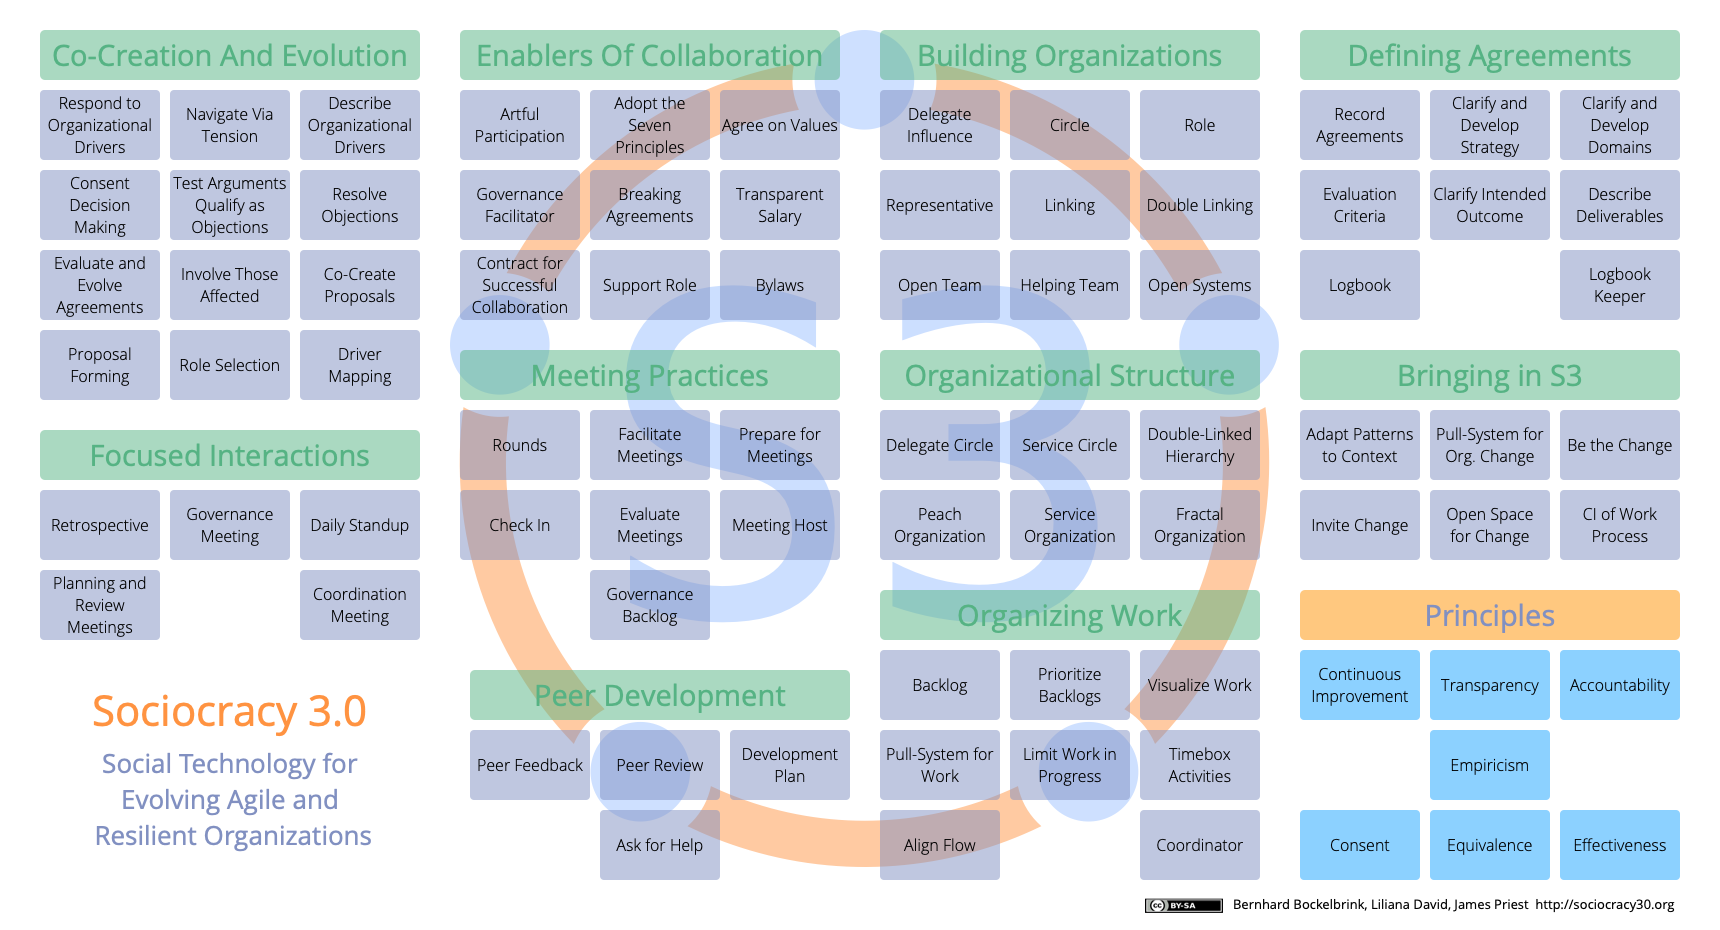
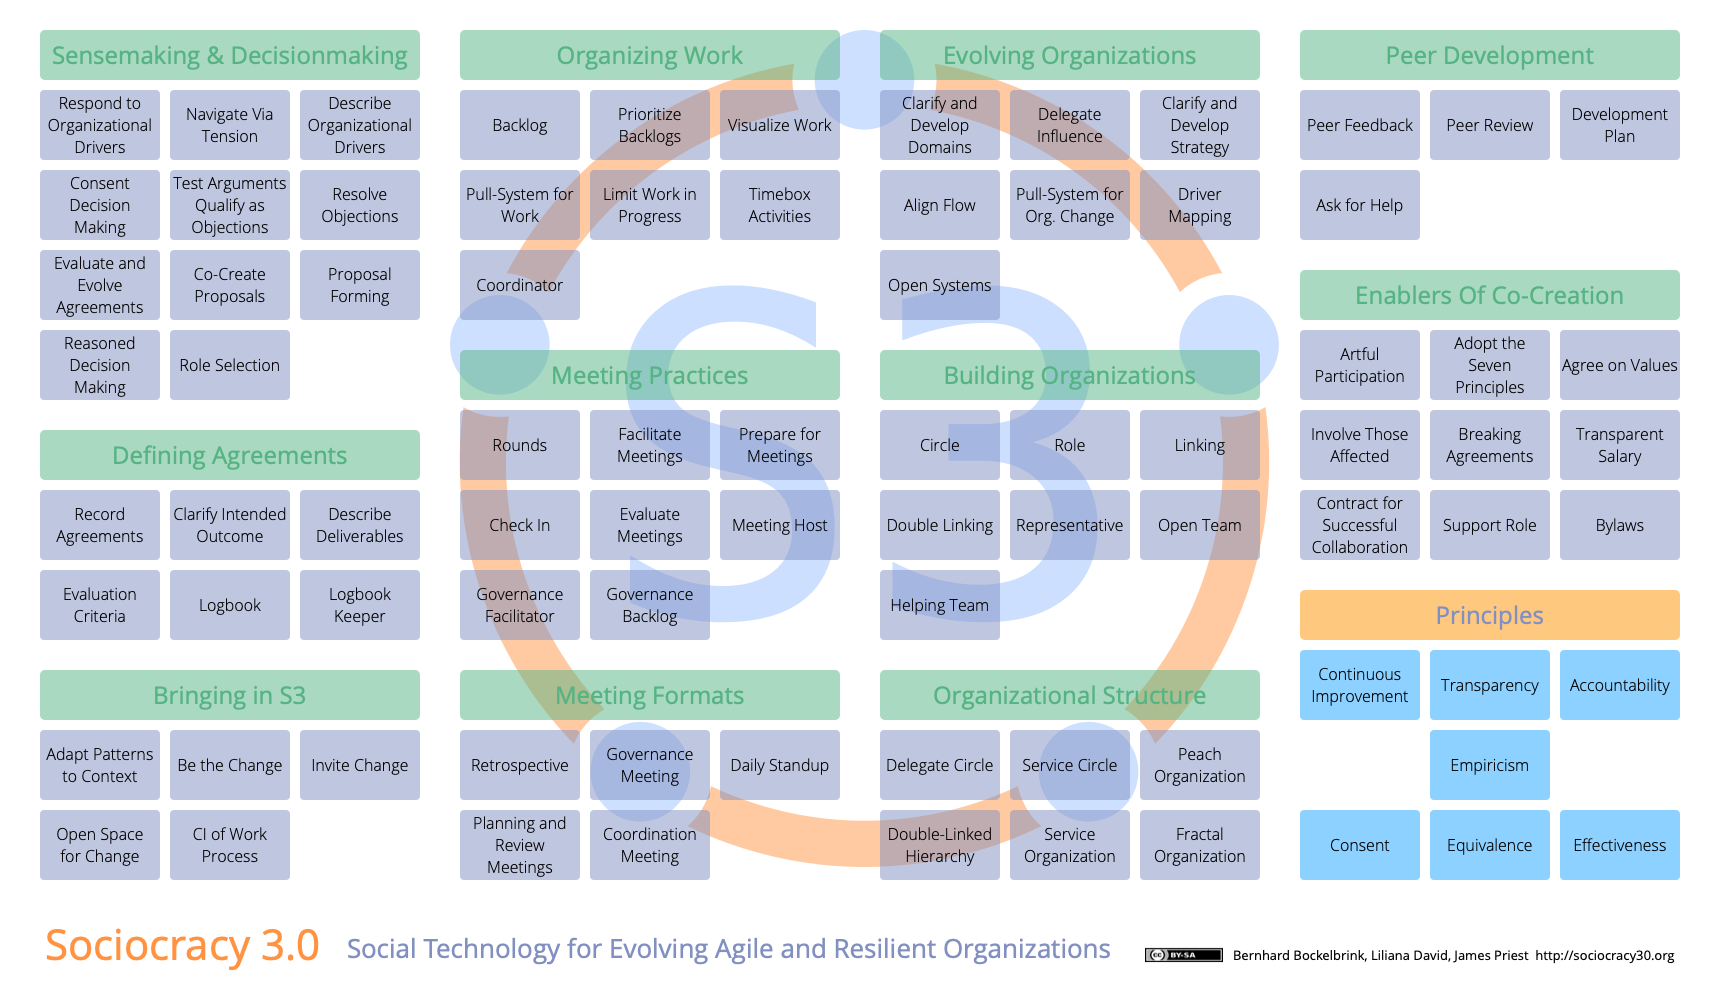
updated pattern map template and image

diff --git a/templates/website/pattern-map.html b/templates/website/pattern-map.html
@@ -1,52 +1,72 @@
 <map name="GraffleExport">
-	<area shape=rect coords="720,410,840,480" href="https://${microsite_cname}/prepare-for-meetings.html">
-	<area shape=rect coords="460,490,580,560" href="https://${microsite_cname}/check-in.html">
-	<area shape=rect coords="1140,730,1260,800" href="https://${microsite_cname}/timebox-activities.html">
-	<area shape=rect coords="40,330,160,400" href="https://${microsite_cname}/proposal-forming.html">
+	<area shape=rect coords="40,30,420,80" href="https://${microsite_cname}/sensemaking-and-decisionmaking.html">
+	<area shape=rect coords="40,330,160,400" href="https://${microsite_cname}/reasoned-decision-making.html">
+	<area shape=rect coords="300,250,420,320" href="https://${microsite_cname}/proposal-forming.html">
 	<area shape=rect coords="170,330,290,400" href="https://${microsite_cname}/role-selection.html">
-	<area shape=rect coords="300,330,420,400" href="https://${microsite_cname}/driver-mapping.html">
 	<area shape=rect coords="40,250,160,320" href="https://${microsite_cname}/evaluate-and-evolve-agreements.html">
-	<area shape=rect coords="170,250,290,320" href="https://${microsite_cname}/involve-those-affected.html">
 	<area shape=rect coords="300,170,420,240" href="https://${microsite_cname}/resolve-objections.html">
 	<area shape=rect coords="40,170,160,240" href="https://${microsite_cname}/consent-decision-making.html">
-	<area shape=rect coords="300,250,420,320" href="https://${microsite_cname}/co-create-proposals.html">
+	<area shape=rect coords="170,250,290,320" href="https://${microsite_cname}/co-create-proposals.html">
 	<area shape=rect coords="170,90,290,160" href="https://${microsite_cname}/navigate-via-tension.html">
-	<area shape=rect coords="170,170,290,240" href="https://${microsite_cname}/test-arguments-qualify-as-objections.html">
+	<area shape=rect coords="170,170,290,240" href="https://${microsite_cname}/test-arguments=qualify-as-objections.html">
 	<area shape=rect coords="40,90,160,160" href="https://${microsite_cname}/respond-to-organizational-drivers.html">
-	<area shape=rect coords="40,30,420,80" href="https://${microsite_cname}/co-creation-and-evolution.html">
 	<area shape=rect coords="300,90,420,160" href="https://${microsite_cname}/describe-organizational-drivers.html">
-	<area shape=rect coords="1300,350,1680,400" href="https://${microsite_cname}/bringing-in-s3.html">
-	<area shape=rect coords="1430,490,1550,560" href="https://${microsite_cname}/open-space-for-change.html">
-	<area shape=rect coords="1430,410,1550,480" href="https://${microsite_cname}/create-a-pull-system-for-organizational-change.html">
-	<area shape=rect coords="1300,490,1420,560" href="https://${microsite_cname}/invite-change.html">
-	<area shape=rect coords="1560,490,1680,560" href="https://${microsite_cname}/continuous-improvement-of-work-process.html">
-	<area shape=rect coords="1300,410,1420,480" href="https://${microsite_cname}/adapt-patterns-to-context.html">
-	<area shape=rect coords="1560,410,1680,480" href="https://${microsite_cname}/be-the-change.html">
-	<area shape=rect coords="880,810,1000,880" href="https://${microsite_cname}/align-flow.html">
-	<area shape=rect coords="1140,810,1260,880" href="https://${microsite_cname}/coordinator.html">
-	<area shape=rect coords="1010,730,1130,800" href="https://${microsite_cname}/limit-work-in-progress.html">
-	<area shape=rect coords="880,730,1000,800" href="https://${microsite_cname}/pull-system-for-work.html">
-	<area shape=rect coords="1010,650,1130,720" href="https://${microsite_cname}/prioritize-backlogs.html">
-	<area shape=rect coords="880,650,1000,720" href="https://${microsite_cname}/backlog.html">
-	<area shape=rect coords="1140,650,1260,720" href="https://${microsite_cname}/visualize-work.html">
-	<area shape=rect coords="880,590,1260,640" href="https://${microsite_cname}/organizing-work.html">
-	<area shape=rect coords="880,350,1260,400" href="https://${microsite_cname}/organizational-structure.html">
-	<area shape=rect coords="1140,490,1260,560" href="https://${microsite_cname}/fractal-organization.html">
-	<area shape=rect coords="1010,490,1130,560" href="https://${microsite_cname}/service-organization.html">
-	<area shape=rect coords="1140,410,1260,480" href="https://${microsite_cname}/double-linked-hierarchy.html">
-	<area shape=rect coords="880,490,1000,560" href="https://${microsite_cname}/peach-organization.html">
-	<area shape=rect coords="1010,410,1130,480" href="https://${microsite_cname}/service-circle.html">
-	<area shape=rect coords="880,410,1000,480" href="https://${microsite_cname}/delegate-circle.html">
-	<area shape=rect coords="1140,250,1260,320" href="https://${microsite_cname}/open-systems.html">
-	<area shape=rect coords="1010,250,1130,320" href="https://${microsite_cname}/helping-team.html">
-	<area shape=rect coords="880,250,1000,320" href="https://${microsite_cname}/open-team.html">
-	<area shape=rect coords="880,30,1260,80" href="https://${microsite_cname}/building-organizations.html">
-	<area shape=rect coords="880,170,1000,240" href="https://${microsite_cname}/representative.html">
-	<area shape=rect coords="1140,170,1260,240" href="https://${microsite_cname}/double-linking.html">
-	<area shape=rect coords="1010,170,1130,240" href="https://${microsite_cname}/linking.html">
-	<area shape=rect coords="880,90,1000,160" href="https://${microsite_cname}/delegate-influence.html">
-	<area shape=rect coords="1140,90,1260,160" href="https://${microsite_cname}/role.html">
-	<area shape=rect coords="1010,90,1130,160" href="https://${microsite_cname}/circle.html">
+	<area shape=rect coords="880,30,1260,80" href="https://${microsite_cname}/evolving-organizations.html">
+	<area shape=rect coords="880,170,1000,240" href="https://${microsite_cname}/align-flow.html">
+	<area shape=rect coords="1010,170,1130,240" href="https://${microsite_cname}/create-a-pull-system-for-organizational-change.html">
+	<area shape=rect coords="1140,170,1260,240" href="https://${microsite_cname}/driver-mapping.html">
+	<area shape=rect coords="880,250,1000,320" href="https://${microsite_cname}/open-systems.html">
+	<area shape=rect coords="1010,90,1130,160" href="https://${microsite_cname}/delegate-influence.html">
+	<area shape=rect coords="880,90,1000,160" href="https://${microsite_cname}/clarify-and-develop-domains.html">
+	<area shape=rect coords="1140,90,1260,160" href="https://${microsite_cname}/clarify-and-develop-strategy.html">
+	<area shape=rect coords="720,410,840,480" href="https://${microsite_cname}/prepare-for-meetings.html">
+	<area shape=rect coords="460,490,580,560" href="https://${microsite_cname}/check-in.html">
+	<area shape=rect coords="590,570,710,640" href="https://${microsite_cname}/governance-backlog.html">
+	<area shape=rect coords="720,490,840,560" href="https://${microsite_cname}/meeting-host.html">
+	<area shape=rect coords="590,490,710,560" href="https://${microsite_cname}/evaluate-meetings.html">
+	<area shape=rect coords="590,410,710,480" href="https://${microsite_cname}/facilitate-meetings.html">
+	<area shape=rect coords="460,410,580,480" href="https://${microsite_cname}/rounds.html">
+	<area shape=rect coords="460,350,840,400" href="https://${microsite_cname}/meeting-practices.html">
+	<area shape=rect coords="460,570,580,640" href="https://${microsite_cname}/governance-facilitator.html">
+	<area shape=rect coords="720,170,840,240" href="https://${microsite_cname}/timebox-activities.html">
+	<area shape=rect coords="460,250,580,320" href="https://${microsite_cname}/coordinator.html">
+	<area shape=rect coords="590,170,710,240" href="https://${microsite_cname}/limit-work-in-progress.html">
+	<area shape=rect coords="460,170,580,240" href="https://${microsite_cname}/pull-system-for-work.html">
+	<area shape=rect coords="590,90,710,160" href="https://${microsite_cname}/prioritize-backlogs.html">
+	<area shape=rect coords="460,90,580,160" href="https://${microsite_cname}/backlog.html">
+	<area shape=rect coords="720,90,840,160" href="https://${microsite_cname}/visualize-work.html">
+	<area shape=rect coords="460,30,840,80" href="https://${microsite_cname}/organizing-work.html">
+	<area shape=rect coords="880,670,1260,720" href="https://${microsite_cname}/organizational-structure.html">
+	<area shape=rect coords="1140,810,1260,880" href="https://${microsite_cname}/fractal-organization.html">
+	<area shape=rect coords="1010,810,1130,880" href="https://${microsite_cname}/service-organization.html">
+	<area shape=rect coords="880,810,1000,880" href="https://${microsite_cname}/double-linked-hierarchy.html">
+	<area shape=rect coords="1140,730,1260,800" href="https://${microsite_cname}/peach-organization.html">
+	<area shape=rect coords="1010,730,1130,800" href="https://${microsite_cname}/service-circle.html">
+	<area shape=rect coords="880,730,1000,800" href="https://${microsite_cname}/delegate-circle.html">
+	<area shape=rect coords="1300,410,1420,480" href="https://${microsite_cname}/involve-those-affected.html">
+	<area shape=rect coords="1430,490,1550,560" href="https://${microsite_cname}/support-role.html">
+	<area shape=rect coords="1430,410,1550,480" href="https://${microsite_cname}/breaking-agreements.html">
+	<area shape=rect coords="1560,410,1680,480" href="https://${microsite_cname}/transparent-salary.html">
+	<area shape=rect coords="1300,490,1420,560" href="https://${microsite_cname}/contract-for-successful-collaboration.html">
+	<area shape=rect coords="1560,490,1680,560" href="https://${microsite_cname}/bylaws.html">
+	<area shape=rect coords="1560,330,1680,400" href="https://${microsite_cname}/agree-on-values.html">
+	<area shape=rect coords="1430,330,1550,400" href="https://${microsite_cname}/adopt-the-seven-principles.html">
+	<area shape=rect coords="1300,330,1420,400" href="https://${microsite_cname}/artful-participation.html">
+	<area shape=rect coords="1300,270,1680,320" href="https://${microsite_cname}/enablers-of-co-creation.html">
+	<area shape=rect coords="40,670,420,720" href="https://${microsite_cname}/bringing-in-s3.html">
+	<area shape=rect coords="40,810,160,880" href="https://${microsite_cname}/open-space-for-change.html">
+	<area shape=rect coords="300,730,420,800" href="https://${microsite_cname}/invite-change.html">
+	<area shape=rect coords="170,810,290,880" href="https://${microsite_cname}/continuous-improvement-of-work-process.html">
+	<area shape=rect coords="40,730,160,800" href="https://${microsite_cname}/adapt-patterns-to-context.html">
+	<area shape=rect coords="170,730,290,800" href="https://${microsite_cname}/be-the-change.html">
+	<area shape=rect coords="880,350,1260,400" href="https://${microsite_cname}/building-organizations.html">
+	<area shape=rect coords="880,570,1000,640" href="https://${microsite_cname}/helping-team.html">
+	<area shape=rect coords="1140,490,1260,560" href="https://${microsite_cname}/open-team.html">
+	<area shape=rect coords="1010,490,1130,560" href="https://${microsite_cname}/representative.html">
+	<area shape=rect coords="880,490,1000,560" href="https://${microsite_cname}/double-linking.html">
+	<area shape=rect coords="1140,410,1260,480" href="https://${microsite_cname}/linking.html">
+	<area shape=rect coords="1010,410,1130,480" href="https://${microsite_cname}/role.html">
+	<area shape=rect coords="880,410,1000,480" href="https://${microsite_cname}/circle.html">
 	<area shape=rect coords="1300,590,1680,640" href="https://${microsite_cname}/principles.html">
 	<area shape=rect coords="1300,650,1420,720" href="https://${microsite_cname}/principle-continuous-improvement.html">
 	<area shape=rect coords="1560,650,1680,720" href="https://${microsite_cname}/principle-accountability.html">
@@ -55,41 +75,23 @@
 	<area shape=rect coords="1560,810,1680,880" href="https://${microsite_cname}/principle-effectiveness.html">
 	<area shape=rect coords="1430,810,1550,880" href="https://${microsite_cname}/principle-equivalence.html">
 	<area shape=rect coords="1430,730,1550,800" href="https://${microsite_cname}/principle-empiricism.html">
-	<area shape=rect coords="590,570,710,640" href="https://${microsite_cname}/governance-backlog.html">
-	<area shape=rect coords="720,490,840,560" href="https://${microsite_cname}/meeting-host.html">
-	<area shape=rect coords="590,490,710,560" href="https://${microsite_cname}/evaluate-meetings.html">
-	<area shape=rect coords="590,410,710,480" href="https://${microsite_cname}/facilitate-meetings.html">
-	<area shape=rect coords="460,410,580,480" href="https://${microsite_cname}/rounds.html">
-	<area shape=rect coords="460,350,840,400" href="https://${microsite_cname}/meeting-practices.html">
-	<area shape=rect coords="300,570,420,640" href="https://${microsite_cname}/coordination-meeting.html">
-	<area shape=rect coords="40,570,160,640" href="https://${microsite_cname}/planning-and-review-meetings.html">
-	<area shape=rect coords="300,490,420,560" href="https://${microsite_cname}/daily-standup.html">
-	<area shape=rect coords="40,490,160,560" href="https://${microsite_cname}/retrospective.html">
-	<area shape=rect coords="170,490,290,560" href="https://${microsite_cname}/governance-meeting.html">
-	<area shape=rect coords="40,429,420,480" href="https://${microsite_cname}/focused-interactions.html">
-	<area shape=rect coords="1560,170,1680,240" href="https://${microsite_cname}/describe-deliverables.html">
-	<area shape=rect coords="1560,90,1680,160" href="https://${microsite_cname}/clarify-and-develop-domains.html">
-	<area shape=rect coords="1300,170,1420,240" href="https://${microsite_cname}/evaluation-criteria.html">
-	<area shape=rect coords="1430,170,1550,240" href="https://${microsite_cname}/clarify-intended-outcome.html">
-	<area shape=rect coords="1560,250,1680,320" href="https://${microsite_cname}/logbook-keeper.html">
-	<area shape=rect coords="1300,250,1420,320" href="https://${microsite_cname}/logbook.html">
-	<area shape=rect coords="1300,90,1420,160" href="https://${microsite_cname}/record-agreements.html">
-	<area shape=rect coords="1430,90,1550,160" href="https://${microsite_cname}/clarify-and-develop-strategy.html">
-	<area shape=rect coords="1300,30,1680,80" href="https://${microsite_cname}/defining-agreements.html">
-	<area shape=rect coords="590,250,710,320" href="https://${microsite_cname}/support-role.html">
-	<area shape=rect coords="590,170,710,240" href="https://${microsite_cname}/breaking-agreements.html">
-	<area shape=rect coords="720,170,840,240" href="https://${microsite_cname}/transparent-salary.html">
-	<area shape=rect coords="460,250,580,320" href="https://${microsite_cname}/contract-for-successful-collaboration.html">
-	<area shape=rect coords="720,250,840,320" href="https://${microsite_cname}/bylaws.html">
-	<area shape=rect coords="460,170,580,240" href="https://${microsite_cname}/governance-facilitator.html">
-	<area shape=rect coords="720,90,840,160" href="https://${microsite_cname}/agree-on-values.html">
-	<area shape=rect coords="590,90,710,160" href="https://${microsite_cname}/adopt-the-seven-principles.html">
-	<area shape=rect coords="460,90,580,160" href="https://${microsite_cname}/artful-participation.html">
-	<area shape=rect coords="460,30,840,80" href="https://${microsite_cname}/enablers-of-collaboration.html">
-	<area shape=rect coords="730,730,850,800" href="https://${microsite_cname}/development-plan.html">
-	<area shape=rect coords="600,730,720,800" href="https://${microsite_cname}/peer-review.html">
-	<area shape=rect coords="470,730,590,800" href="https://${microsite_cname}/peer-feedback.html">
-	<area shape=rect coords="600,810,720,880" href="https://${microsite_cname}/ask-for-help.html">
-	<area shape=rect coords="470,670,850,720" href="https://${microsite_cname}/peer-development.html">
+	<area shape=rect coords="590,810,710,880" href="https://${microsite_cname}/coordination-meeting.html">
+	<area shape=rect coords="460,810,580,880" href="https://${microsite_cname}/planning-and-review-meetings.html">
+	<area shape=rect coords="720,730,840,800" href="https://${microsite_cname}/daily-standup.html">
+	<area shape=rect coords="460,730,580,800" href="https://${microsite_cname}/retrospective.html">
+	<area shape=rect coords="590,730,710,800" href="https://${microsite_cname}/governance-meeting.html">
+	<area shape=rect coords="460,670,840,720" href="https://${microsite_cname}/meeting-formats.html">
+	<area shape=rect coords="300,490,420,560" href="https://${microsite_cname}/describe-deliverables.html">
+	<area shape=rect coords="40,570,160,640" href="https://${microsite_cname}/evaluation-criteria.html">
+	<area shape=rect coords="170,490,290,560" href="https://${microsite_cname}/clarify-intended-outcome.html">
+	<area shape=rect coords="300,570,420,640" href="https://${microsite_cname}/logbook-keeper.html">
+	<area shape=rect coords="170,570,290,640" href="https://${microsite_cname}/logbook.html">
+	<area shape=rect coords="40,490,160,560" href="https://${microsite_cname}/record-agreements.html">
+	<area shape=rect coords="40,430,420,480" href="https://${microsite_cname}/defining-agreements.html">
+	<area shape=rect coords="1560,90,1680,160" href="https://${microsite_cname}/development-plan.html">
+	<area shape=rect coords="1430,90,1550,160" href="https://${microsite_cname}/peer-review.html">
+	<area shape=rect coords="1300,90,1420,160" href="https://${microsite_cname}/peer-feedback.html">
+	<area shape=rect coords="1300,170,1420,240" href="https://${microsite_cname}/ask-for-help.html">
+	<area shape=rect coords="1300,30,1680,80" href="https://${microsite_cname}/peer-development.html">
 </map>
 <img border=0 src="img/pattern-map-72dpi.png" usemap="#GraffleExport">
